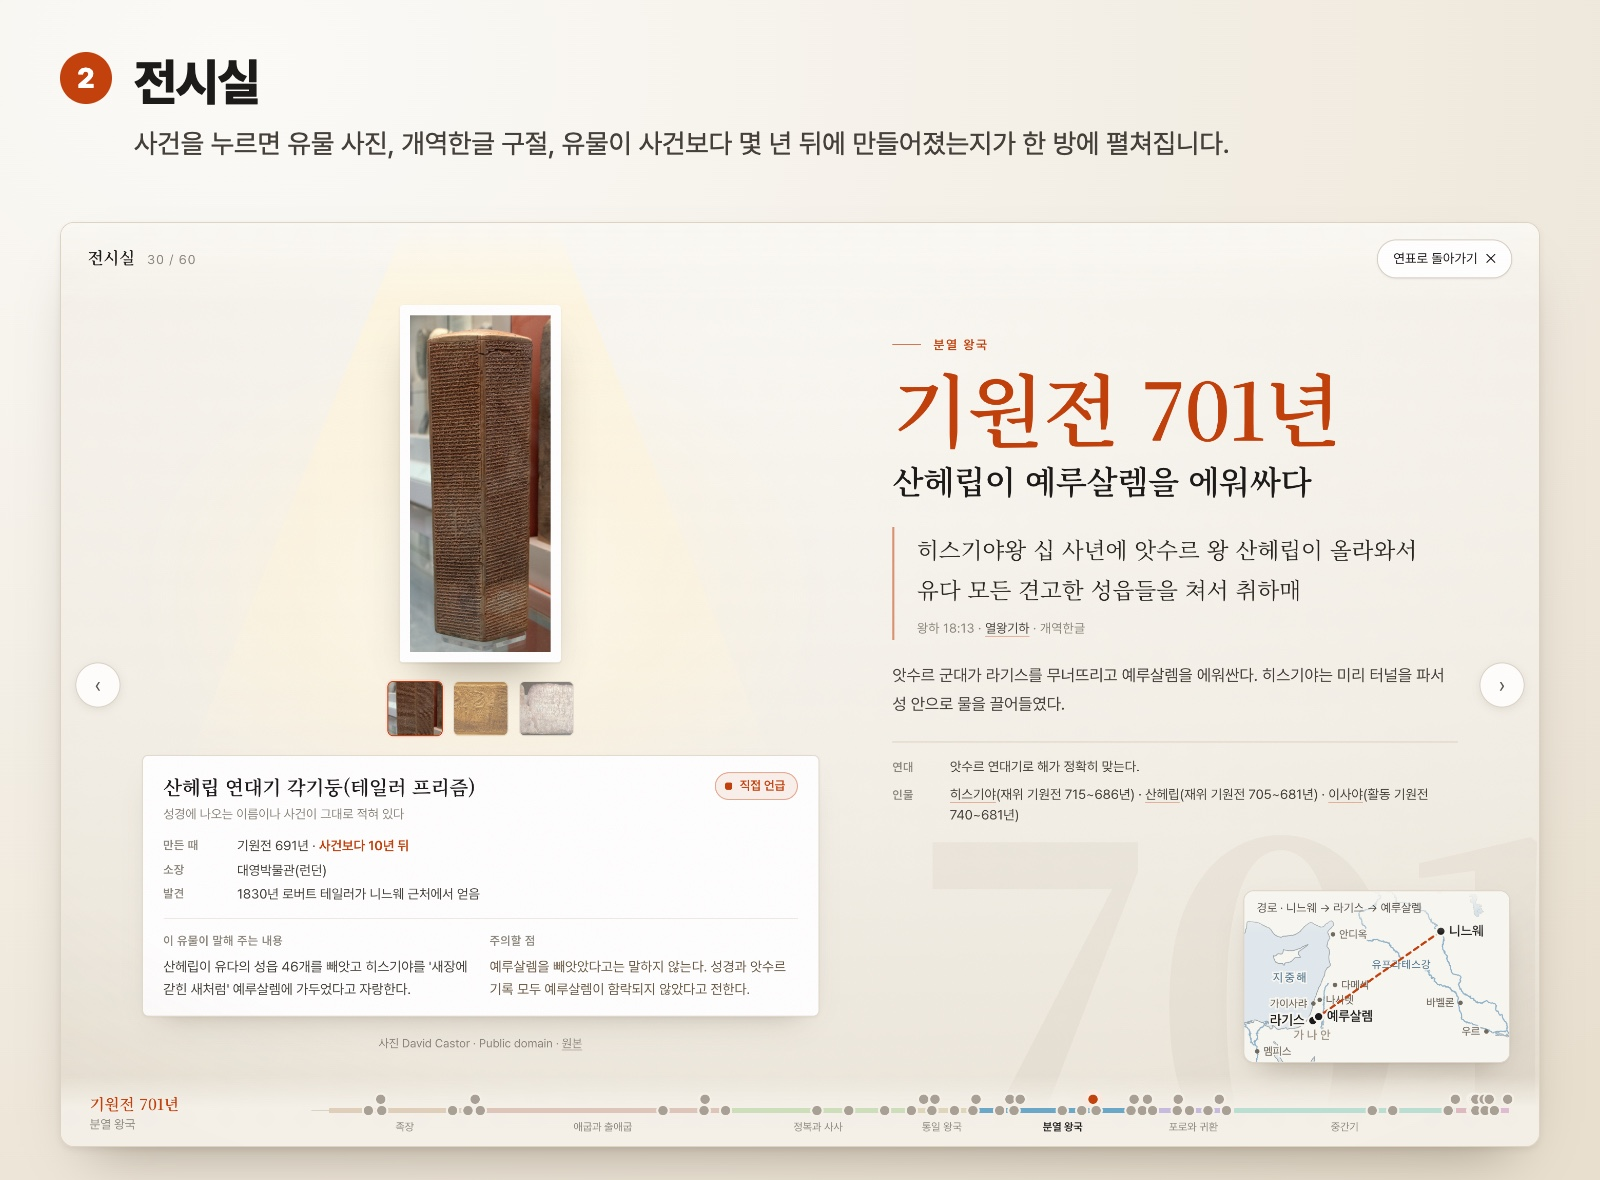
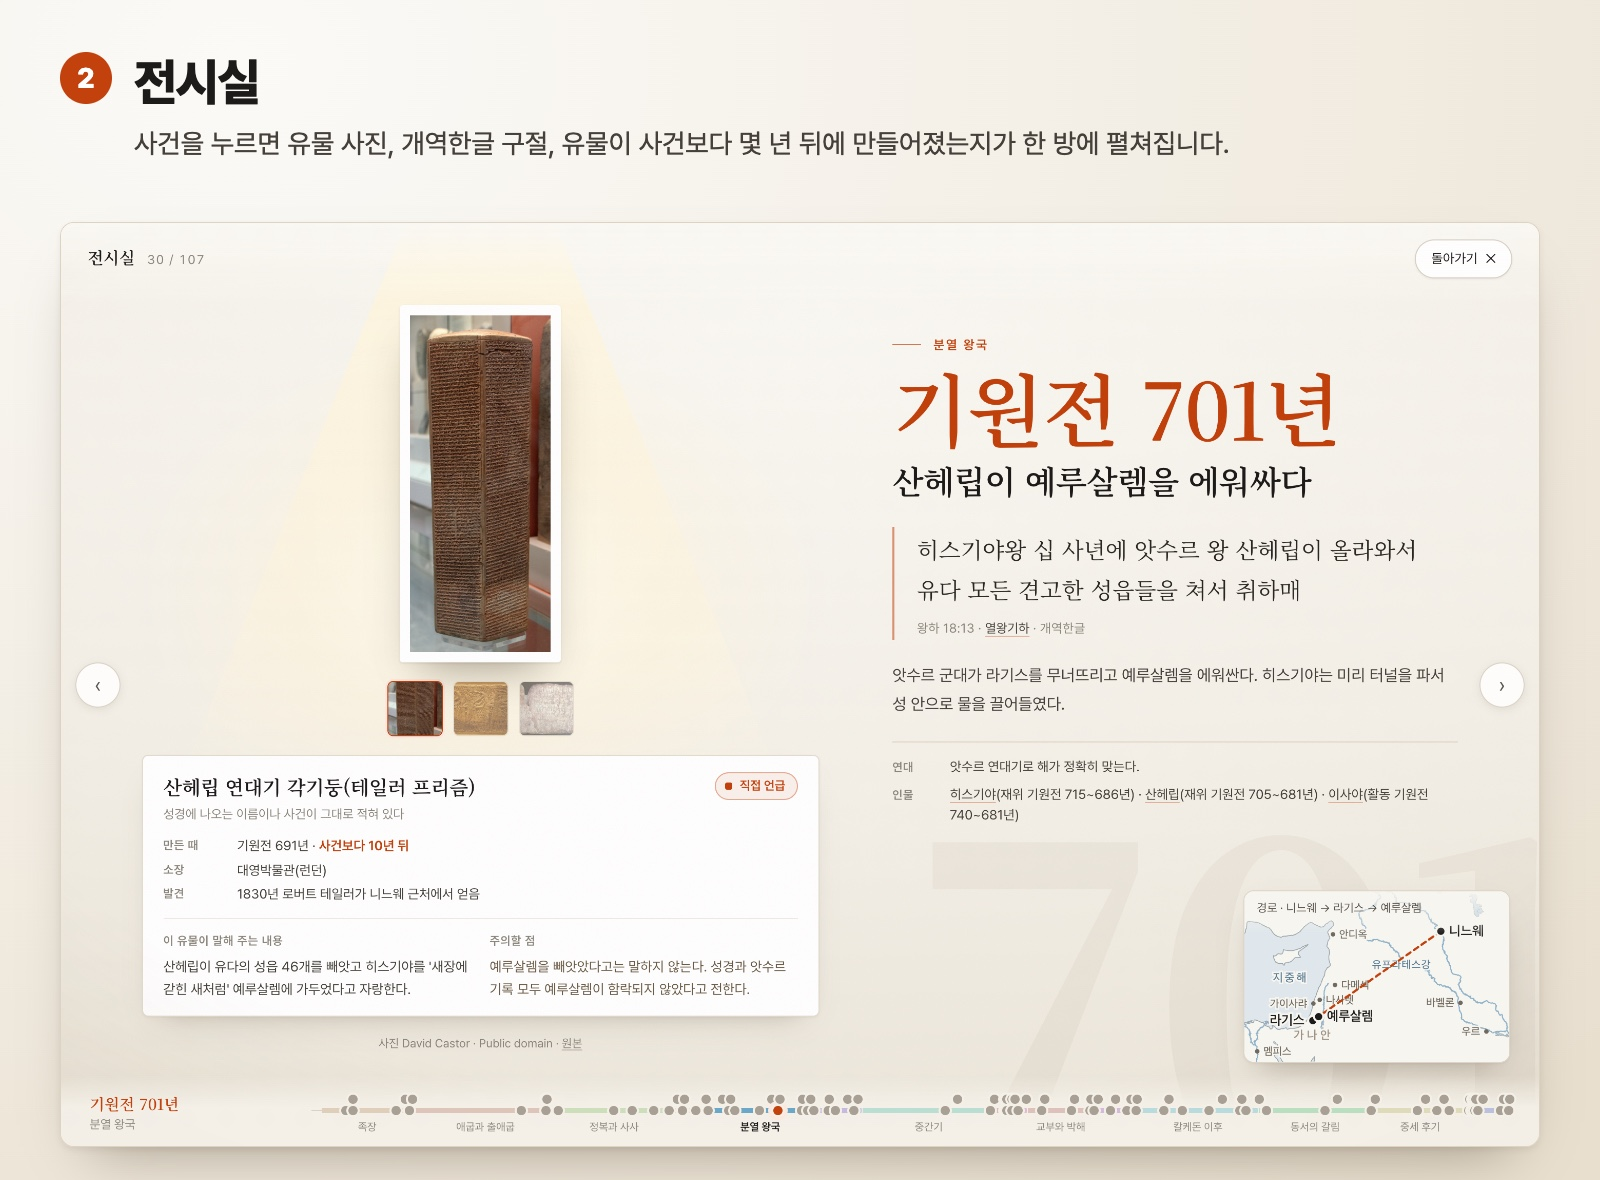
소개 그림에 교회사 카드 2장과 휴대폰 화면 하나 더함(모두 10장)

diff --git a/README.md b/README.md
@@ -15,7 +15,7 @@
 | `site/d/` | 예전 주소. 첫 화면으로 넘겨 주며, 주소 끝의 `#사건 이름`도 그대로 넘깁니다 |
 | `site/shared/` | 모든 화면이 함께 쓰는 사건 자료(처음 만든 11개는 `data.js`, 나머지 49개는 `events_more.js`), 인물 프로필 자료(`profiles.js`와 시대별 묶음 `profiles_g1.js`~`profiles_g4.js`), 성경 66권 목록(`books.js`)과 책 해설(`guides.js`와 갈래별 묶음 `guides_g1.js`~`guides_g7.js`), 책 해설에만 나오는 장소(`places_story.js`와 묶음 `places_g1.js`~`places_g7.js`), 교회사 시대·사건·인물·장소(`church_events.js`와 묶음 `church_ev1.js`~`church_ev3.js`, 프로필 `profiles_c1.js`~`profiles_c3.js`), 교회사 논쟁(`controversies.js`와 묶음 `controversies_1.js`~`controversies_3.js`, 연표용 색인 `controversy_index.js`), 당대 배경(`backgrounds.js`와 시대 묶음 `bg_e1.js`·`bg_e2.js`·교회사 `bg_c1.js`·`bg_c2.js`, 책 묶음 `bg_g1.js`~`bg_g7.js`), 배경의 출처 목록(`sources.js`), 사건과 프로필 장절의 개역한글 본문(`verses.js`, 스크립트가 만듦. 연표 사건 것만 따로 `verses_events.js`), 지도 그리기(`map.js`), 지도 모양(`geo.json`), 사진 출처(`credits.json`) |
 | `site/img/` | 유물 사진. 긴 변을 1200 px 이하로 줄인 JPEG와, 목록·연표 칸에 쓰는 320 px 판(`img/sm/`) |
-| `promo/` | 카톡·SNS에 올릴 소개 그림 8장(한눈에 보기, 기능 6가지, 휴대폰 화면). `tools/promo.mjs`가 만듦. 사이트에는 올라가지 않습니다 |
+| `promo/` | 카톡·SNS에 올릴 소개 그림 10장(한눈에 보기, 기능 8가지, 휴대폰 화면). `tools/promo.mjs`가 만듦. 사이트에는 올라가지 않습니다 |
 | `tools/` | 사진을 내려받는 스크립트(`fetch_images.py`), 프로필 장절의 본문을 뽑고 주장과 대조하는 스크립트(`build_verses.py`), 책 해설의 장소를 점검하는 스크립트(`check_places.mjs`), 당대 배경을 점검하는 스크립트(`check_bg.mjs`), 교회사 자료를 점검하는 스크립트(`check_church.mjs`), 인물 프로필을 점검하는 스크립트(`check_profiles.mjs`), 지도 모양을 잘라 내는 스크립트(`crop_geo.mjs`), 헤드리스 크롬으로 화면을 열어 검사하고 찍는 스크립트(`headless.mjs`, `CPU=4`로 휴대폰 속도, `PROFILE`로 함수별 시간, `SCALE=2`로 2배 해상도), 카톡·SNS 소개 그림을 `promo/`에 만드는 스크립트(`promo.mjs`), 내 컴퓨터에서 띄우는 미리보기 서버(`serve.py`), 링크 공유 그림(`og.html`을 `og.sh`가 찍어 `site/og.jpg`로 저장) |
 
 ## 내 컴퓨터에서 보기
